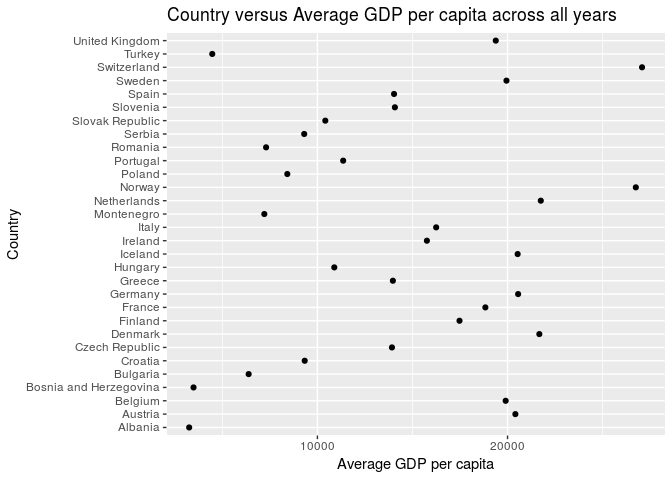
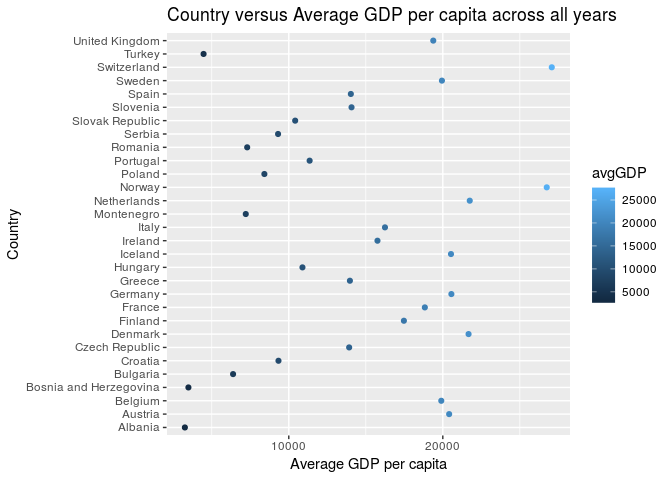
Nearly done

diff --git a/Gapminder-Exploration.md b/Gapminder-Exploration.md
@@ -16,6 +16,7 @@ suppressPackageStartupMessages(library(tidyverse))
 
 ``` r
 suppressPackageStartupMessages(library(gapminder))
+suppressPackageStartupMessages(library(plotly))
 ```
 
 ``` r
@@ -23,21 +24,6 @@ library(gapminder)
 library(tidyverse)
 library(plotly)
 ```
-
-    ## 
-    ## Attaching package: 'plotly'
-
-    ## The following object is masked from 'package:ggplot2':
-    ## 
-    ##     last_plot
-
-    ## The following object is masked from 'package:stats':
-    ## 
-    ##     filter
-
-    ## The following object is masked from 'package:graphics':
-    ## 
-    ##     layout
 
 Factor Management
 -----------------
@@ -121,7 +107,7 @@ knitr :: kable(df) # print table
 | United Kingdom         |  19380.473|
 
 ``` r
-ggplot(df, aes(avgGDP, country)) +
+ggplot(df, aes(avgGDP, country, colour = avgGDP)) +
    geom_point() + 
    ggtitle("Country versus Average GDP per capita across all years") +
    xlab("Average GDP per capita") + 
@@ -139,7 +125,7 @@ df <- gapminder %>%
    summarize(avgGDP = mean(gdpPercap)) %>%
    mutate(country = fct_reorder(country, avgGDP)) # this line reorders the country factor by average GDP per capita
 
-ggplot(df, aes(avgGDP, country)) +
+ggplot(df, aes(avgGDP, country, colour = avgGDP)) +
    geom_point() + 
    ggtitle("Country versus Average GDP per capita across all years") +
    xlab("Average GDP per capita") + 
@@ -159,7 +145,7 @@ First lets create our dataset, and view the continent factor, along with its lev
 gapminderExpMax <- gapminder %>%
   group_by(continent) %>%
   summarize(maxLifeExp = max(lifeExp)) %>%
-  mutate(continent = fct_reorder(continent, maxLifeExp, .desc = TRUE))
+  mutate(continent = fct_reorder(continent, maxLifeExp, .desc = TRUE)) # reorder continent factor by max life expectancy
 
 gapminderExpMax %>%
   str()
@@ -245,12 +231,16 @@ df <- gapminder %>%
   
 myPlot <- ggplot(df, aes(continent, pop, fill = continent)) +
   geom_violin() +
-  scale_y_log10() +
-  scale_fill_brewer(palette = "Set1") +
+  scale_y_log10() + # scale y axis
+  scale_fill_brewer(palette = "Set1") + # apply colour scheme
   ggtitle("Population Spread Comparison across Continents") +
   ylab("population")  + 
-  theme(axis.text = element_text(size = 12))
+  theme(axis.text = element_text(size = 12)) # change size of axis text
+
+myPlot # render actual plot
 ```
+
+![](Gapminder-Exploration_files/figure-markdown_github/unnamed-chunk-11-1.png)
 
 We now convert the graph above to a plotly plot. Note that to actually interact with the plot, one must do it in rstudio, and not through github. I've commented out the code that produces the plotly plot below, however feel free to uncomment it and run the code to interact with the plot.
 
